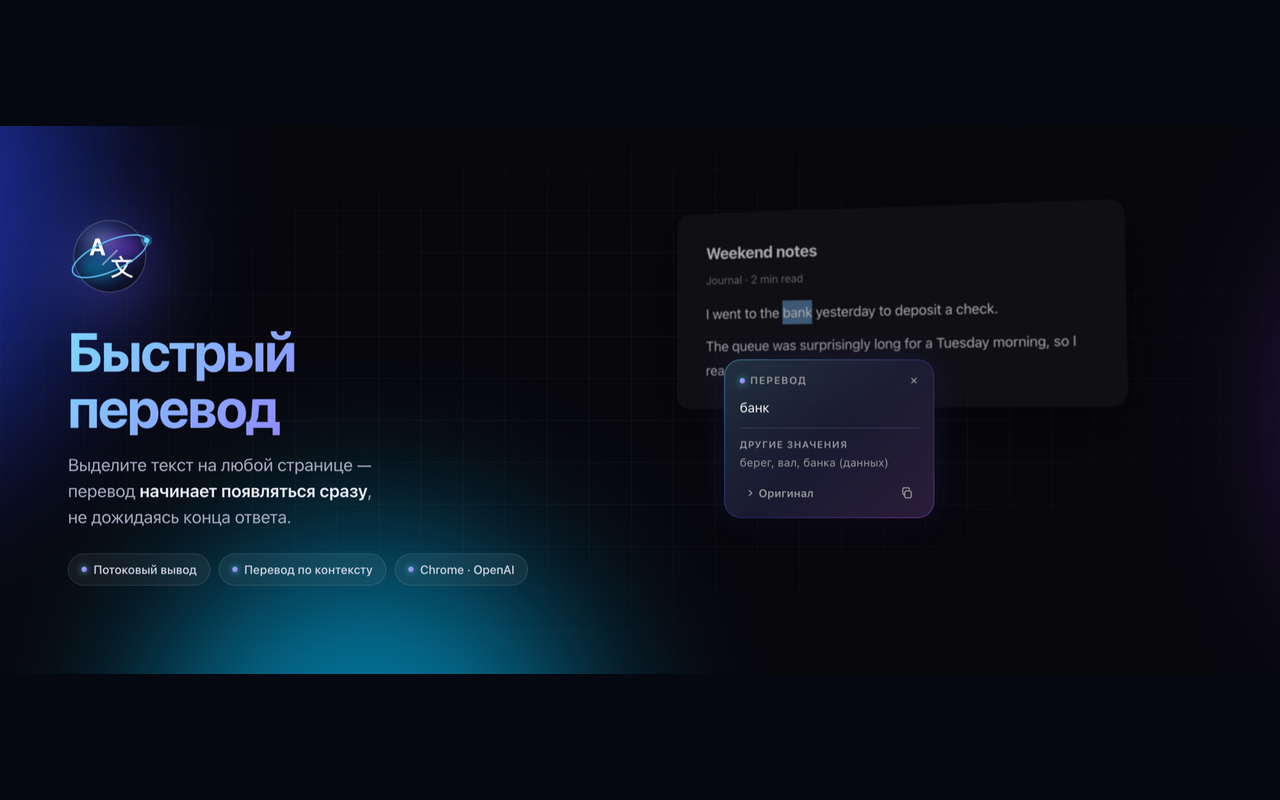
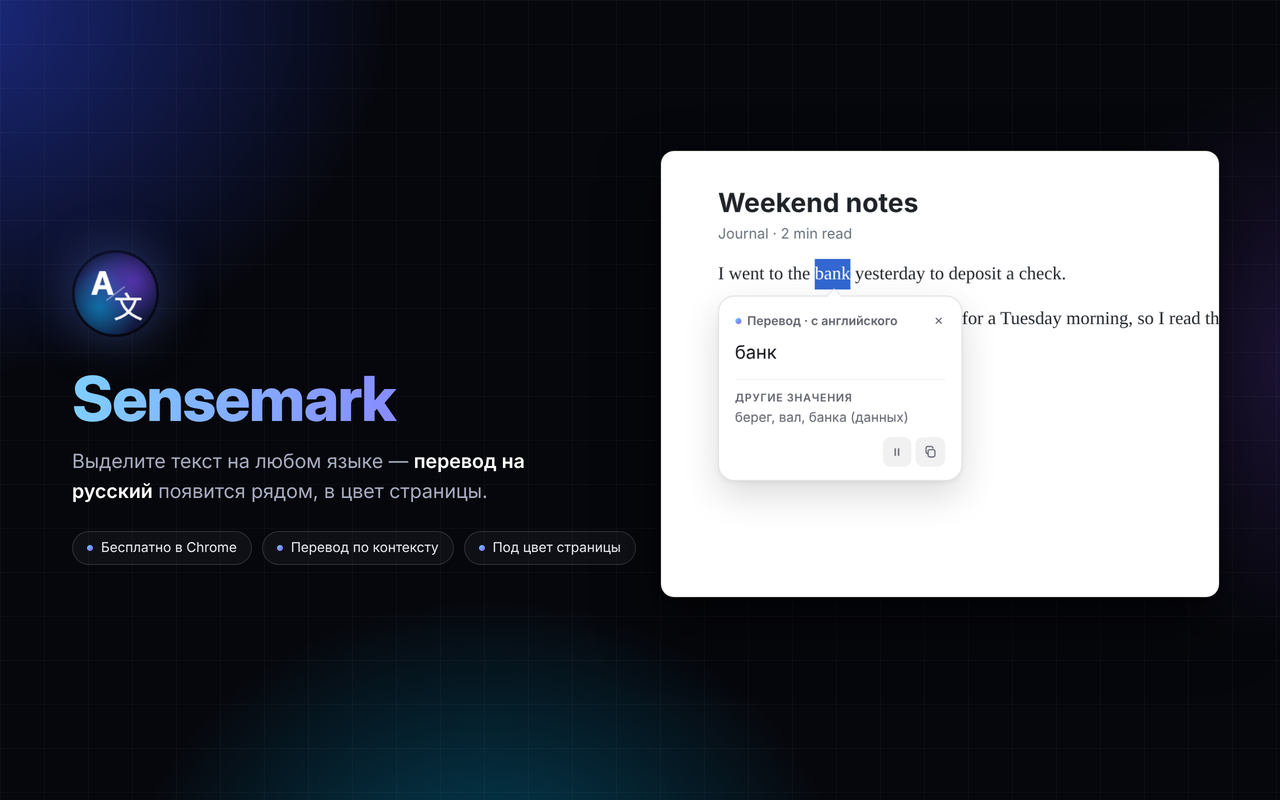
Refresh README and store images; fix source-language label for single words
- Retake every README and Chrome Web Store image from the real extension:
  the new card, the status pill, margin notes and the new settings page.
  Add feature-chameleon.png and feature-long.png, a fifth store screenshot
  (settings) and replace the old sizing screenshot with a long-text one.
- README (ru/en): the obsolete "one key and you're done" section is now
  about free vs OpenAI mode and appearance settings; new sections for the
  page-matched card and margin notes.
- Store listing: reviewer instructions cover the free mode first.
- Fix: for a single word, the card header showed a wrong language
  ("bank" detected as Cebuano). The label is now detected from the
  surrounding sentence, and an unreliable guess on a very short text is
  not shown at all. Regression tests added.

diff --git a/content.js b/content.js
@@ -487,20 +487,30 @@
 
   // Русский ли это текст и с какого языка переводим — для подписи
   // «Перевожу с английского…». Определяет сам Chrome, локально и бесплатно.
-  async function detectSource(text) {
-    let detection = null;
-    try {
-      detection = await chrome.i18n?.detectLanguage?.(text);
-    } catch {
-      // Локальный CLD может не дать результат для очень короткого текста.
-    }
-    const top = detection?.languages?.[0];
+  // На одном слове определитель часто ошибается («bank» → себуано), поэтому
+  // язык для подписи берём по предложению вокруг, а ненадёжный ответ не
+  // показываем вовсе — лучше просто «Перевод», чем неверный язык.
+  async function detectSource(text, labelText = text) {
+    const detection = await detectLanguageSafe(text);
+    const labelDetection = labelText === text ? detection : await detectLanguageSafe(labelText);
+    const top = labelDetection?.languages?.[0];
     const code = Builtin.normalizeLanguage(top?.language);
-    const known = code && code !== "ru" && (top?.percentage ?? 100) >= 60;
+    // isReliable у Chrome бывает false даже на верном ответе для короткого
+    // предложения, поэтому от 20 символов верим и «ненадёжному» ответу.
+    const trusted = labelDetection?.isReliable !== false || labelText.trim().length >= 20;
+    const known = code && code !== "ru" && trusted && (top?.percentage ?? 100) >= 60;
     return {
       ignore: isRussianOnly(text, detection),
       language: known ? Builtin.languageGenitive(code) : ""
     };
+  }
+
+  async function detectLanguageSafe(text) {
+    try {
+      return await chrome.i18n?.detectLanguage?.(text);
+    } catch {
+      return null; // локальный CLD может не дать результат для очень короткого текста
+    }
   }
 
   // Ближайший блочный предок — за его границы предложение не выходит.
@@ -595,7 +605,7 @@
 
     // Русский текст уже является результатом перевода: не показываем карточку
     // и не отправляем лишний запрос в OpenAI.
-    const source = await detectSource(info.text);
+    const source = await detectSource(info.text, info.context || info.text);
     if (source.ignore) {
       if (id !== requestId) return;
       close();

diff --git a/tests/content-integration.test.js b/tests/content-integration.test.js
@@ -74,8 +74,13 @@ async function setupContent(markup, options = {}) {
   window.chrome = {
     i18n: {
       async detectLanguage(text) {
+        // Как настоящий CLD: одно слово «bank» он путает с себуано.
+        if (text.trim() === "bank") {
+          return { isReliable: false, languages: [{ language: "ceb", percentage: 100 }] };
+        }
         return {
-          isReliable: true,
+          // Настоящий CLD считает «ненадёжным» и верный ответ на короткой фразе.
+          isReliable: text.length > 60,
           languages: [
             {
               language: /^[А-Яа-яЁё\s.,!?—-]+$/u.test(text) ? "ru" : "en",
@@ -370,6 +375,26 @@ test("while waiting: a small pill, then a circle, and no empty card", async () =
   assert.equal(card.shadowRoot.querySelector(".badge").textContent, "Перевод · с английского");
   await wait(200);
   assert.equal(context.document.getElementById(STATUS_HOST), null, "кружок уступил место карточке");
+});
+
+test("a single word gets its source language from the sentence, not a wrong guess", async () => {
+  const context = await setupContent('<p>I went to the <span id="w">bank</span> yesterday to deposit a check.</p>');
+  context.select(context.document.getElementById("w"));
+  await context.translateSelection();
+  context.ports[0].serverMessage({ type: "done", text: "[[translation]]\nбанк\nдругие значения: берег, вал" });
+
+  const badge = context.document.getElementById(CARD_HOST).shadowRoot.querySelector(".badge");
+  assert.equal(badge.textContent, "Перевод · с английского");
+});
+
+test("an unreliable language guess is not shown at all", async () => {
+  const context = await setupContent('<p id="w">bank</p>');
+  context.select(context.document.getElementById("w"));
+  await context.translateSelection();
+  context.ports[0].serverMessage({ type: "done", text: "[[translation]]\nбанк" });
+
+  const badge = context.document.getElementById(CARD_HOST).shadowRoot.querySelector(".badge");
+  assert.equal(badge.textContent, "Перевод");
 });
 
 test("Esc while the pill is waiting cancels the request and removes the pill", async () => {

diff --git a/README.en.md b/README.en.md
@@ -22,11 +22,27 @@ Before a request, Sensemark cleans the selection locally: it removes menus, site
 
 ## No waiting for the translation
 
-The response streams over SSE: the card opens together with the first translated characters while the model is still writing the rest. No empty loading card is shown before the response begins.
+The response streams: the card opens together with the first translated characters while the rest is still being written. No empty loading card is shown — if the response is slow, a small "Перевожу с английского…" pill appears next to the selection and shrinks into a circle with a running arc.
 
-<img src="docs/feature-stream.png" alt="Three stages of a translation appearing as it is generated">
+<img src="docs/feature-stream.png" alt="The status pill, then the circle, then the card with the translation">
 
 Close the card mid-translation and the request aborts — unfinished tokens aren't billed.
+
+<br>
+
+## A card that matches the page
+
+The card takes the colours of the site you are reading: white on a white page, dark on a dark one, warm on a sepia one, and the translation uses the page's text size. In the "Оформление" settings you can pin a light or dark theme, pick the translation font (System, Golos Text or Literata) and turn off "same size as the page".
+
+<img src="docs/feature-chameleon.png" alt="The card on a white, a dark and a sepia page">
+
+<br>
+
+## Long text goes to the margin
+
+A short fragment is translated in a card under the selection. A long one (about 300+ characters or several paragraphs) appears as a note in the right margin, or as a panel at the window edge when there is no room. The text stays visible, and the card moves with it while you scroll.
+
+<img src="docs/feature-long.png" alt="Three paragraphs translated as a margin note and as a panel at the window edge">
 
 <br>
 
@@ -46,7 +62,7 @@ If the selection is not a common word — for example, it is a name, title, user
 
 <img src="docs/feature-context.png" alt="The word bank in two contexts: банк and берег">
 
-The card lives in a Shadow DOM, so site styles can't break it, and it follows the page's light or dark theme.
+The card lives in a Shadow DOM, so site styles can't break it.
 
 <br>
 
@@ -58,9 +74,11 @@ The whole card scales, not just the font — padding, buttons and icons grow wit
 
 <br>
 
-## One key and you're done
+## Settings: free or smarter
 
-<img src="docs/feature-options.png" alt="Extension settings page">
+<img src="docs/feature-options.png" alt="Settings: translation mode and card appearance">
+
+The free mode works right after installation — nothing to configure. In the settings you can switch to OpenAI with your own key and choose the card theme, font and size. There is no "Save" button: everything applies immediately.
 
 <br>
 
@@ -101,7 +119,7 @@ Sensemark has two modes, chosen in settings. The default is **free**: Chrome's b
 
 1. Create a key at [platform.openai.com/api-keys](https://platform.openai.com/api-keys) and top up your balance
 2. Click the extension icon, then the settings button in the top-right corner
-3. Paste the key in settings and hit **Проверить ключ** (Test key)
+3. Choose the **OpenAI** mode, paste the key and hit **Проверить ключ** (Test key)
 
 **On cost.** The default is the cheapest current model, `gpt-6-luna`, with reasoning turned off; instructions are short and in English. Pricing depends on OpenAI's current rates. Track spending at [platform.openai.com/usage](https://platform.openai.com/usage), where you can also configure limits.
 
@@ -118,7 +136,7 @@ Sensemark has two modes, chosen in settings. The default is **free**: Chrome's b
 | Manual | Click the extension icon → paste text; translation starts automatically |
 | Scale | <kbd>⌘</kbd>/<kbd>Ctrl</kbd> + scroll over the card |
 
-In the card: the icon button copies the translation, ⏸ pauses or turns off auto-translation. Close it with <kbd>Esc</kbd>, the × or a click outside. Scrolling does not close the card: it moves with the text. The card takes the page's colours and text size; long selections are translated as a note in the right margin (or a panel at the window edge when there is no room).
+In the card: the icon button copies the translation, ⏸ pauses or turns off auto-translation. Close it with <kbd>Esc</kbd>, the × or a click outside. Scrolling does not close the card: it moves with the text.
 
 You can rebind the shortcut at `chrome://extensions/shortcuts`. If it doesn't work right away, check there that the combination is actually assigned — Chrome silently leaves the field empty when another extension already claims it.
 

diff --git a/README.md b/README.md
@@ -24,15 +24,25 @@
 
 Ответ идёт потоком: карточка открывается вместе с первыми буквами перевода, пока остальное ещё дописывается. Пустого окна загрузки нет — если ответ задерживается, у выделения появляется маленькая пилюля «Перевожу с английского…», которая сжимается в кружок с бегущей дугой.
 
+<img src="docs/feature-stream.png" alt="Пилюля «Перевожу с английского…», затем кружок, затем карточка с переводом">
+
+Закрыли карточку посреди перевода — запрос обрывается, недогенерированные токены не оплачиваются.
+
+<br>
+
 ## Карточка под страницу
 
 Карточка берёт цвета сайта, на котором вы читаете: на белом она белая, на тёмном — тёмная, на «сепии» — тёплая, а перевод того же размера, что и текст страницы. В настройках «Оформление» можно закрепить светлую или тёмную тему, выбрать шрифт перевода (системный, Golos Text или Literata) и выключить размер «как на странице».
 
+<img src="docs/feature-chameleon.png" alt="Карточка на белой, тёмной и книжной странице">
+
+<br>
+
+## Длинный текст — на полях
+
 Короткий фрагмент переводится карточкой под выделением. Длинный (от ~300 символов или несколько абзацев) — заметкой на полях справа от текста, а если справа нет места — панелью у правого края окна. Текст при этом остаётся открытым, а карточка едет вместе с ним при прокрутке.
 
-<img src="docs/feature-stream.png" alt="Три стадии перевода: текст появляется по мере генерации">
-
-Закрыли карточку посреди перевода — запрос обрывается, недогенерированные токены не оплачиваются.
+<img src="docs/feature-long.png" alt="Перевод трёх абзацев заметкой на полях и панелью у края окна">
 
 <br>
 
@@ -52,7 +62,7 @@
 
 <img src="docs/feature-context.png" alt="Слово bank в двух контекстах: банк и берег">
 
-Карточка живёт в Shadow DOM, поэтому стили сайта её не ломают, а тема подхватывается автоматически.
+Карточка живёт в Shadow DOM, поэтому стили сайта её не ломают.
 
 <br>
 
@@ -64,9 +74,11 @@
 
 <br>
 
-## Один ключ — и готово
+## Настройки: бесплатно или умнее
 
-<img src="docs/feature-options.png" alt="Страница настроек расширения">
+<img src="docs/feature-options.png" alt="Настройки: режим перевода и оформление карточки">
+
+Сразу после установки работает бесплатный режим — ничего настраивать не нужно. В настройках можно переключиться на OpenAI со своим ключом, выбрать тему, шрифт и размер карточки. Кнопки «Сохранить» нет: всё применяется сразу.
 
 <br>
 

diff --git a/store/CHROME_WEB_STORE.md b/store/CHROME_WEB_STORE.md
@@ -23,7 +23,7 @@ Productivity
 **Assets**
 
 - Store icon: `store/assets/icon-128.png`
-- Screenshots, in order: `screenshot-1-overview.png`, `screenshot-2-streaming.png`, `screenshot-3-context.png`, `screenshot-4-sizing.png`
+- Screenshots, in order: `screenshot-1-overview.png`, `screenshot-2-streaming.png`, `screenshot-3-context.png`, `screenshot-4-long-text.png`, `screenshot-5-settings.png`
 - Small promo tile: `store/assets/promo-small-440x280.png`
 - Marquee promo tile (optional): `store/assets/promo-marquee-1400x560.png`
 
@@ -116,9 +116,18 @@ Select **No, I am not using remote code**. All executable JavaScript and CSS are
 
 ## Reviewer test instructions
 
-The extension requires an OpenAI API key with available API balance.
+The default free mode needs no key: it uses Chrome's built-in Translator API (Chrome 138+). The optional OpenAI mode requires an OpenAI API key with available API balance.
 
-1. Install the extension; the settings page opens automatically.
+Free mode:
+
+1. Install the extension; the settings page opens automatically with “Встроенный переводчик Chrome — Бесплатно” selected.
+2. Open any regular HTTPS page, select an English sentence and press Ctrl+Shift+Y (Windows/Linux) or Command+Shift+Y (macOS).
+3. The first time, Chrome downloads a language pack: the card offers “Скачать”, then shows the download progress. Afterwards the Russian translation appears in a card next to the selection, in the page's colours.
+4. Select several paragraphs; confirm that the translation appears as a note in the right margin (or as a panel at the window edge) and that the selected text stays visible.
+
+OpenAI mode:
+
+1. Open the settings page and choose “OpenAI”.
 2. Review the data disclosure and select the consent checkbox.
 3. Paste the reviewer API key into “API-ключ OpenAI”.
 4. Click “Проверить ключ” and confirm that “Работает” appears.

diff --git a/CHANGELOG.md b/CHANGELOG.md
@@ -39,6 +39,8 @@
 
 ### Изменено
 
+- Картинки в README и для Chrome Web Store пересняты с новой карточки
+  и настроек; описание магазина рассказывает про бесплатный режим.
 - Убрана кнопка «Оригинал»: исходный текст и так виден на странице рядом
   с карточкой.
 - Sensemark снова универсален: удалена обработка под отдельный сайт
